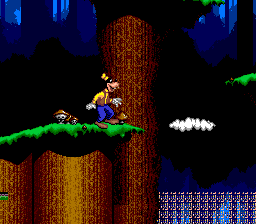
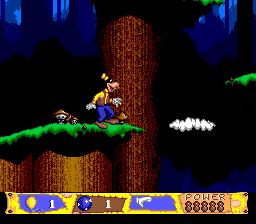
Fix window plane when width is 32

Changed region(s): [[0.0, 0.8438, 1.0, 1.0]]

diff --git a/src/lib/sega/video/video.cpp b/src/lib/sega/video/video.cpp
@@ -138,8 +138,18 @@ std::span<const uint8_t> Video::update() {
       return false;
     }
 
-    size_t tile_x = (x / kTileDimension) % vdp_device_.plane_width();
-    size_t tile_y = (y / kTileDimension) % vdp_device_.plane_height();
+    size_t raw_tile_x = (x / kTileDimension);
+    size_t raw_tile_y = (y / kTileDimension);
+    if (plane_type == PlaneType::Window && vdp_device_.plane_width() == 64 && vdp_device_.tile_width() == 32)
+        [[unlikely]] {
+      if (raw_tile_y % 2 == 1) {
+        raw_tile_x += 32;
+      }
+      raw_tile_y /= 2;
+    }
+
+    size_t tile_x = raw_tile_x % vdp_device_.plane_width();
+    size_t tile_y = raw_tile_y % vdp_device_.plane_height();
 
     const auto* nametable_vram_ptr = vdp_device_.vram_data().data() + table_address +
                                      sizeof(NametableEntry) * (tile_y * vdp_device_.plane_width() + tile_x);
